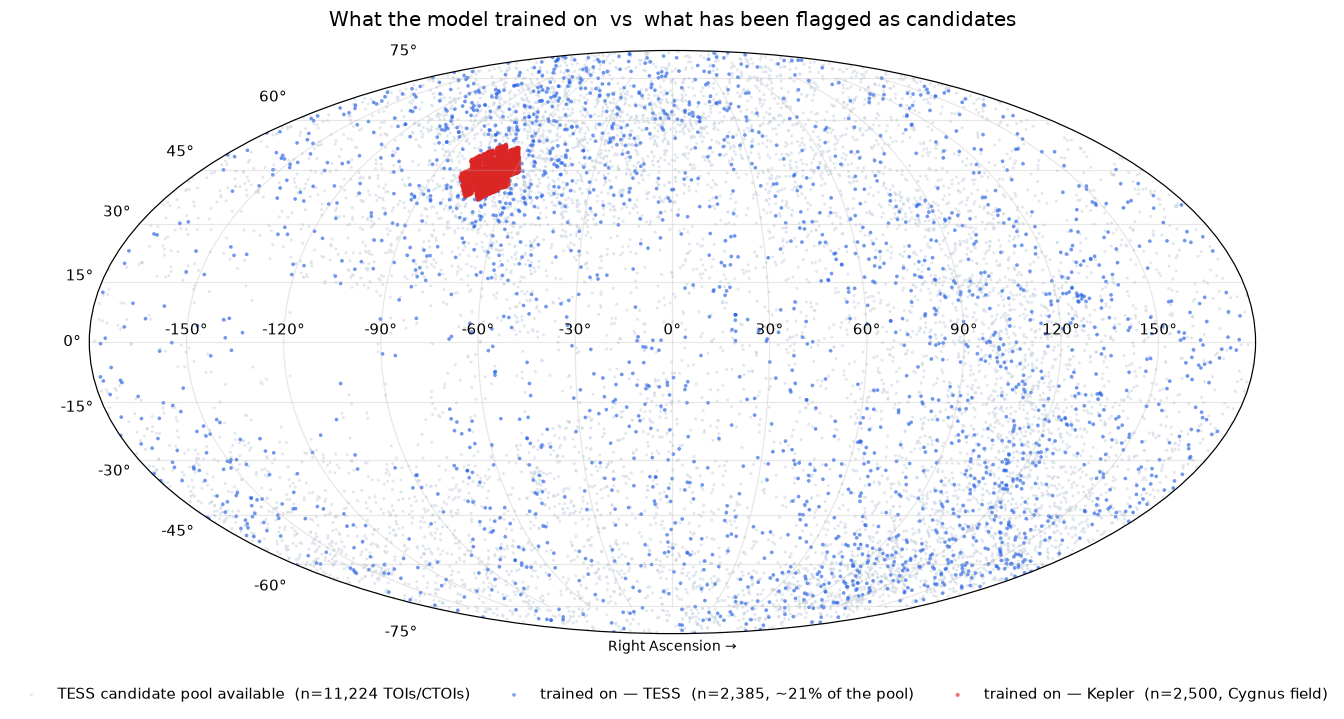
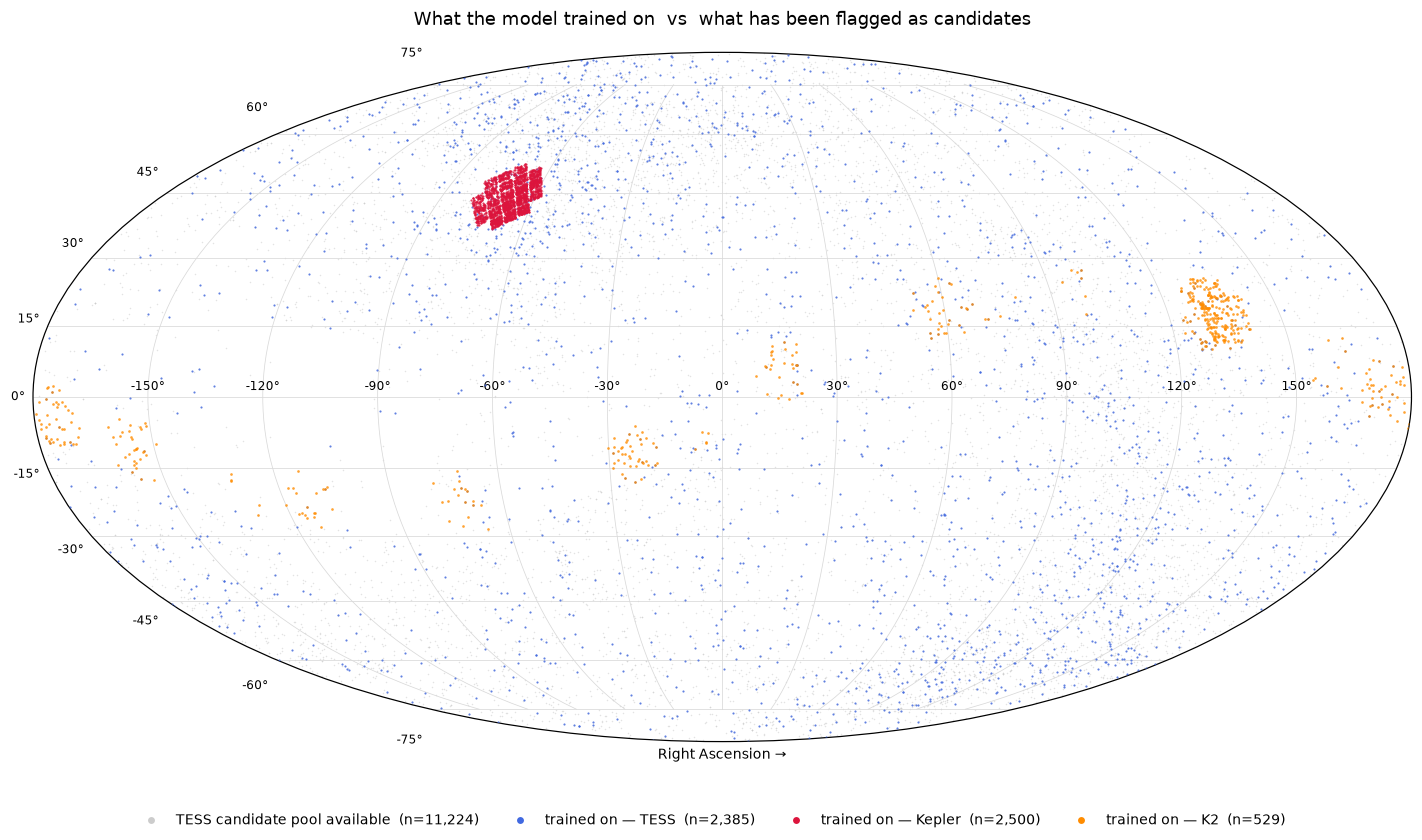
docs(provenance): K2 sky band + a reproducible figure generator
The sky/coverage figures were made ad hoc and had no generator in the repo,
so they still showed the two-mission build. plot_provenance.py regenerates
both from the live artefacts (positions from cached FITS RA_OBJ/DEC_OBJ), and
the K2 campaign fields now appear as the ecliptic band.

Counts refreshed to the current build (5,686 labelled: 2,656 TESS + 2,500
Kepler + 530 K2) and the source table gains k2pandc + the DR25 KOI table.

diff --git a/pipeline/scripts/plot_provenance.py b/pipeline/scripts/plot_provenance.py
@@ -1,0 +1,181 @@
+"""Regenerate the data-provenance sky figures from the live artefacts.
+
+Sky positions come from the RA_OBJ/DEC_OBJ keywords of each target's cached
+FITS file, so the figures only ever show targets actually downloaded.
+
+    python pipeline/scripts/plot_provenance.py
+"""
+
+from __future__ import annotations
+
+import json
+from pathlib import Path
+
+import matplotlib.pyplot as plt
+import numpy as np
+import pandas as pd
+from astropy.io import fits
+
+from exoplanet_hunter.utils import get_logger
+
+log = get_logger(__name__)
+
+REPO_ROOT = Path(__file__).resolve().parents[2]
+FIG_DIR = REPO_ROOT / "docs" / "figures"
+
+# mission -> (cache dir, filename prefix, colour, marker size)
+MISSIONS = {
+    "TESS": ("data/raw", "tic", "royalblue", 2.0),
+    "Kepler": ("data/raw_kepler", "kic", "crimson", 2.0),
+    "K2": ("data/raw", "epic", "darkorange", 3.0),
+}
+
+
+def _resolve_positions(catalog: pd.DataFrame) -> pd.DataFrame:
+    """Attach RA/Dec from the cached FITS headers; drop unresolved targets."""
+    ra, dec = [], []
+    for tid, mission in zip(catalog["tic_id"], catalog["mission"], strict=True):
+        sub, prefix, *_ = MISSIONS[mission]
+        path = REPO_ROOT / sub / f"{prefix}_{int(tid)}.fits"
+        try:
+            header = fits.getheader(path, 0)
+            ra.append(float(header["RA_OBJ"]))
+            dec.append(float(header["DEC_OBJ"]))
+        except (FileNotFoundError, KeyError, OSError, TypeError, ValueError):
+            ra.append(np.nan)
+            dec.append(np.nan)
+    out = catalog.assign(ra_deg=ra, dec_deg=dec).dropna(subset=["ra_deg", "dec_deg"])
+    log.info("[provenance] resolved %d/%d target positions", len(out), len(catalog))
+    return out
+
+
+def _mollweide(ax) -> None:
+    ax.grid(color="0.85", lw=0.5)
+    ax.set_xlabel("Right Ascension →", fontsize=9)
+    ax.tick_params(labelsize=8)
+
+
+def _radians(ra_deg, dec_deg):
+    # Mollweide wants longitude in [-pi, pi]; wrap RA about 0h so the map is
+    # centred on RA=0 (Kepler's Cygnus field then sits left of centre).
+    ra = np.asarray(ra_deg, dtype=float)
+    return np.radians(np.where(ra > 180.0, ra - 360.0, ra)), np.radians(np.asarray(dec_deg))
+
+
+def plot_sky_map(pos: pd.DataFrame, out: Path) -> None:
+    fig = plt.figure(figsize=(13, 7.6))
+    ax = fig.add_subplot(111, projection="mollweide")
+    _mollweide(ax)
+    handles = []
+    for mission, (_, _, colour, size) in MISSIONS.items():
+        sub = pos[pos["mission"] == mission]
+        if sub.empty:
+            continue
+        x, y = _radians(sub["ra_deg"], sub["dec_deg"])
+        ax.scatter(x, y, s=size, c=colour, alpha=0.75, linewidths=0, zorder=3)
+        handles.append((mission, len(sub), colour, size))
+
+    ax.set_title(
+        "Where the model has looked — training targets on the sky (equatorial, Mollweide)",
+        fontsize=12,
+        pad=18,
+    )
+    footprints = {
+        "TESS": "all-sky",
+        "Kepler": "one field in Cygnus",
+        "K2": "ecliptic plane",
+    }
+    fig.legend(
+        handles=[
+            plt.Line2D(
+                [],
+                [],
+                marker="o",
+                ls="",
+                color=c,
+                markersize=max(3.5, s),
+                label=f"{m}  (n={n:,}, {footprints[m]})",
+            )
+            for m, n, c, s in handles
+        ],
+        loc="lower center",
+        ncol=len(handles),
+        frameon=False,
+        fontsize=10,
+    )
+    fig.tight_layout(rect=(0, 0.05, 1, 1))
+    fig.savefig(out, dpi=110, bbox_inches="tight")
+    plt.close(fig)
+    log.info("[provenance] wrote %s", out)
+
+
+def plot_coverage_map(pos: pd.DataFrame, candidates: pd.DataFrame, out: Path) -> None:
+    fig = plt.figure(figsize=(13, 7.6))
+    ax = fig.add_subplot(111, projection="mollweide")
+    _mollweide(ax)
+
+    pool = candidates.dropna(subset=["ra_deg", "dec_deg"])
+    xp, yp = _radians(pool["ra_deg"], pool["dec_deg"])
+    ax.scatter(xp, yp, s=1.0, c="0.80", alpha=0.55, linewidths=0, zorder=1)
+
+    handles = [("TESS candidate pool available", len(pool), "0.80", 1.0)]
+    for mission, (_, _, colour, size) in MISSIONS.items():
+        sub = pos[pos["mission"] == mission]
+        if sub.empty:
+            continue
+        x, y = _radians(sub["ra_deg"], sub["dec_deg"])
+        ax.scatter(x, y, s=size, c=colour, alpha=0.8, linewidths=0, zorder=3)
+        handles.append((f"trained on — {mission}", len(sub), colour, size))
+
+    ax.set_title(
+        "What the model trained on  vs  what has been flagged as candidates",
+        fontsize=12,
+        pad=18,
+    )
+    fig.legend(
+        handles=[
+            plt.Line2D(
+                [],
+                [],
+                marker="o",
+                ls="",
+                color=c,
+                markersize=max(3.5, s),
+                label=f"{lbl}  (n={n:,})",
+            )
+            for lbl, n, c, s in handles
+        ],
+        loc="lower center",
+        ncol=len(handles),
+        frameon=False,
+        fontsize=9,
+    )
+    fig.tight_layout(rect=(0, 0.05, 1, 1))
+    fig.savefig(out, dpi=110, bbox_inches="tight")
+    plt.close(fig)
+    log.info("[provenance] wrote %s", out)
+
+
+def main() -> None:
+    catalog = pd.read_parquet(REPO_ROOT / "data" / "labels" / "labels.parquet")
+    candidates = pd.read_parquet(REPO_ROOT / "data" / "catalogue" / "candidates.parquet")
+    pos = _resolve_positions(catalog)
+
+    FIG_DIR.mkdir(parents=True, exist_ok=True)
+    plot_sky_map(pos, FIG_DIR / "sky_map.png")
+    plot_coverage_map(pos, candidates, FIG_DIR / "coverage_map.png")
+
+    counts = pos["mission"].value_counts().to_dict()
+    summary = {
+        "labelled_targets": len(catalog),
+        "resolved_positions": len(pos),
+        "by_mission_labelled": catalog["mission"].value_counts().to_dict(),
+        "by_mission_resolved": counts,
+        "candidate_pool": len(candidates),
+    }
+    log.info("[provenance] %s", json.dumps(summary))
+    print(json.dumps(summary, indent=2))
+
+
+if __name__ == "__main__":
+    main()

diff --git a/docs/data_provenance.md b/docs/data_provenance.md
@@ -7,9 +7,10 @@ actually been trained on versus everything that has been observed. It exists
 because "where did the training distribution come from?" is a first-order
 question for interpreting anything the model says.
 
-All figures are regenerated from the live artefacts; the sky positions are
-read straight from the `RA_OBJ`/`DEC_OBJ` keywords in each target's FITS
-header (4,885 of the 5,156 training targets resolved).
+All figures are regenerated from the live artefacts by
+`pipeline/scripts/plot_provenance.py`; the sky positions are read straight
+from the `RA_OBJ`/`DEC_OBJ` keywords in each target's FITS header (5,414 of
+the 5,686 training targets resolved).
 
 ## Sources of truth
 
@@ -22,6 +23,8 @@ source of truth for *labels*, queried over its TAP service
 | `ps` (Planetary Systems) | TESS-discovered **confirmed planets** (`disc_facility like '%TESS%'`) | positive labels |
 | `toi` (TESS Project Candidates) | every TOI with its **TFOPWG disposition** (`tfopwg_disp`: CP/KP/FP/PC) | pos / neg / held-out |
 | `cumulative` (Kepler Objects of Interest) | KOIs with `koi_disposition` (CONFIRMED / FALSE POSITIVE / CANDIDATE) | Kepler pos / neg |
+| `q1_q17_dr25_koi` (Kepler DR25 KOI) | `koi_score` — the Robovetter vote behind the retired certified-FP table | certifying Kepler negatives |
+| `k2pandc` (K2 Planets & Candidates) | EPIC-keyed dispositions (CONFIRMED / FALSE POSITIVE / REFUTED / CANDIDATE) | K2 pos / neg / held-out |
 
 **ExoFOP** (`exofop.ipac.caltech.edu/tess`) is a *secondary, enrichment*
 source, not the label authority (`data/exofop.py`): the TOI + **CTOI** CSVs
@@ -34,6 +37,8 @@ Raw light curves come from the mission archives, not either catalogue:
 - **Kepler** — long-cadence light curves pulled **directly from the STScI
   archive** (`archive.stsci.edu/pub/kepler/lightcurves`), with a MAST search
   fallback (`data/download.py`).
+- **K2** — EPIC-indexed campaign light curves from **MAST** (via `lightkurve`,
+  author `K2`), cached alongside TESS in `data/raw` as `epic_*.fits`.
 
 So the common shorthand "we only look at ExoFOP" is inverted: the labels are
 already anchored to the NASA Exoplanet Archive; ExoFOP only adds CTOIs and
@@ -43,7 +48,7 @@ follow-up columns on top.
 
 ![Training targets on the sky](figures/sky_map.png)
 
-The training set is two completely different observing strategies:
+The training set is three completely different observing strategies:
 
 - **Kepler (red, n=2,500)** — one fixed ~115 deg² field in **Cygnus–Lyra**,
   RA 280–302°, Dec +37–52°, centroid **(291.9°, +43.8°)**. Kepler stared here
@@ -51,6 +56,11 @@ The training set is two completely different observing strategies:
   cover only this keyhole.
 - **TESS (blue, n=2,385)** — **all-sky**, Dec −89° to +88°, every RA, from
   TESS's 27-day sector tiling.
+- **K2 (orange, n=529)** — the **ecliptic plane**, in discrete clumps: after
+  losing a second reaction wheel Kepler could only hold pointing along the
+  ecliptic, observing a chain of ~80-day campaign fields. Those campaigns are
+  the orange islands strung across the map, all within roughly ±30° of the
+  ecliptic — a footprint neither of the other two missions covers well.
 
 ## What we trained on vs what has been observed
 
@@ -67,9 +77,13 @@ transit candidates*, not a random sample of observed stars, so selection
 effects (bright-star bias, short-period bias, the confirmed/FP class balance)
 are baked in.
 
-Counts (this build): 5,156 labelled targets — **2,656 TESS + 2,500 Kepler**,
-roughly balanced planet-ish (2,565) vs false-positive (2,320). On disk the raw
-FITS cache is 2,391 TESS files (39 GB) + 4,542 Kepler files (42 GB).
+Counts (this build): 5,686 labelled targets — **2,656 TESS + 2,500 Kepler +
+530 K2**. On disk the raw FITS cache is 2,391 TESS + 529 K2 files in
+`data/raw`, plus 4,705 Kepler files in `data/raw_kepler`.
+
+The grey pool is TESS-only (TOIs/CTOIs from ExoFOP), so the Kepler and K2
+points sit outside it by construction — their held-out candidate pools live in
+`data/labels/candidates.parquet` instead (1,630 Kepler + 834 K2).
 
 ## What the raw data actually looks like
 
